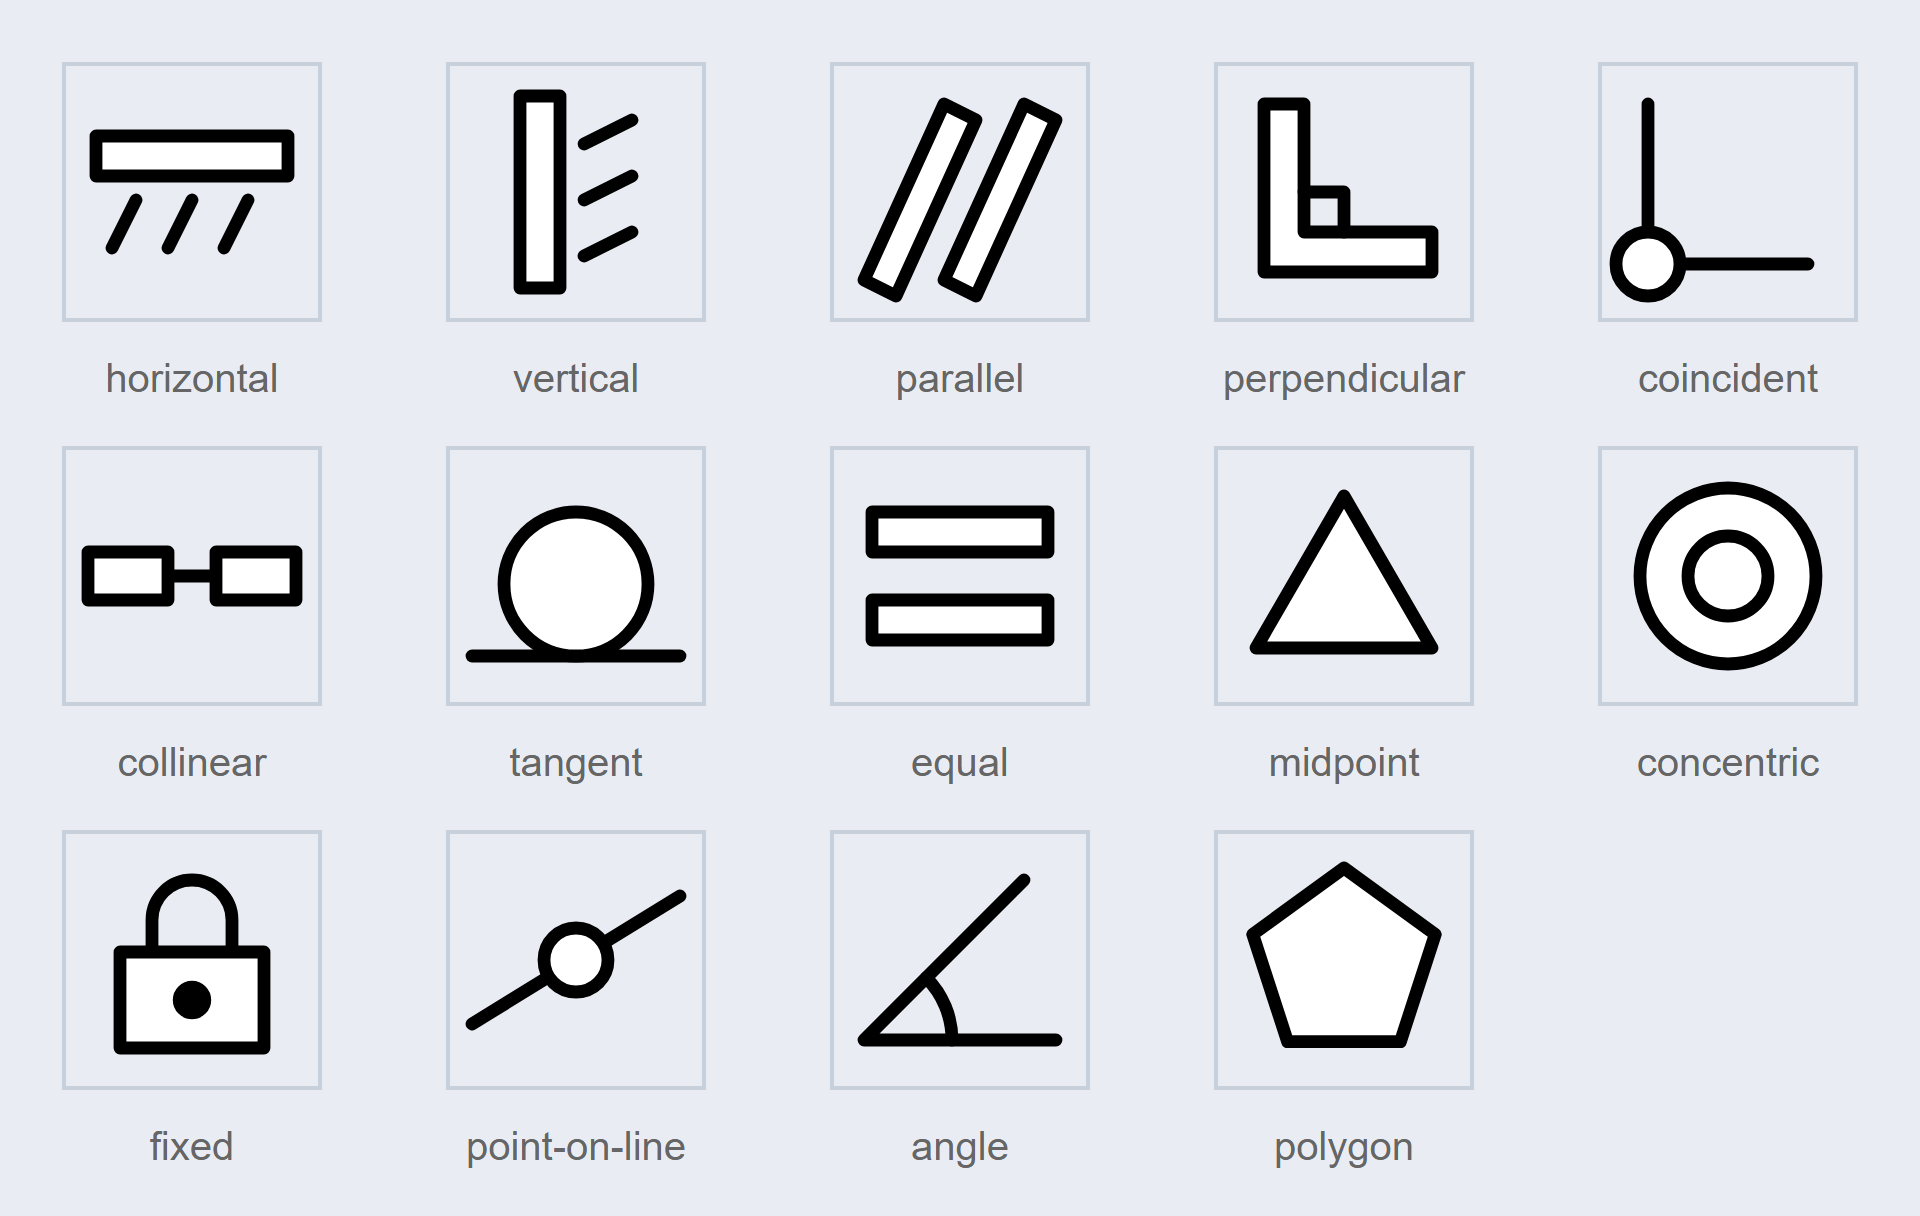
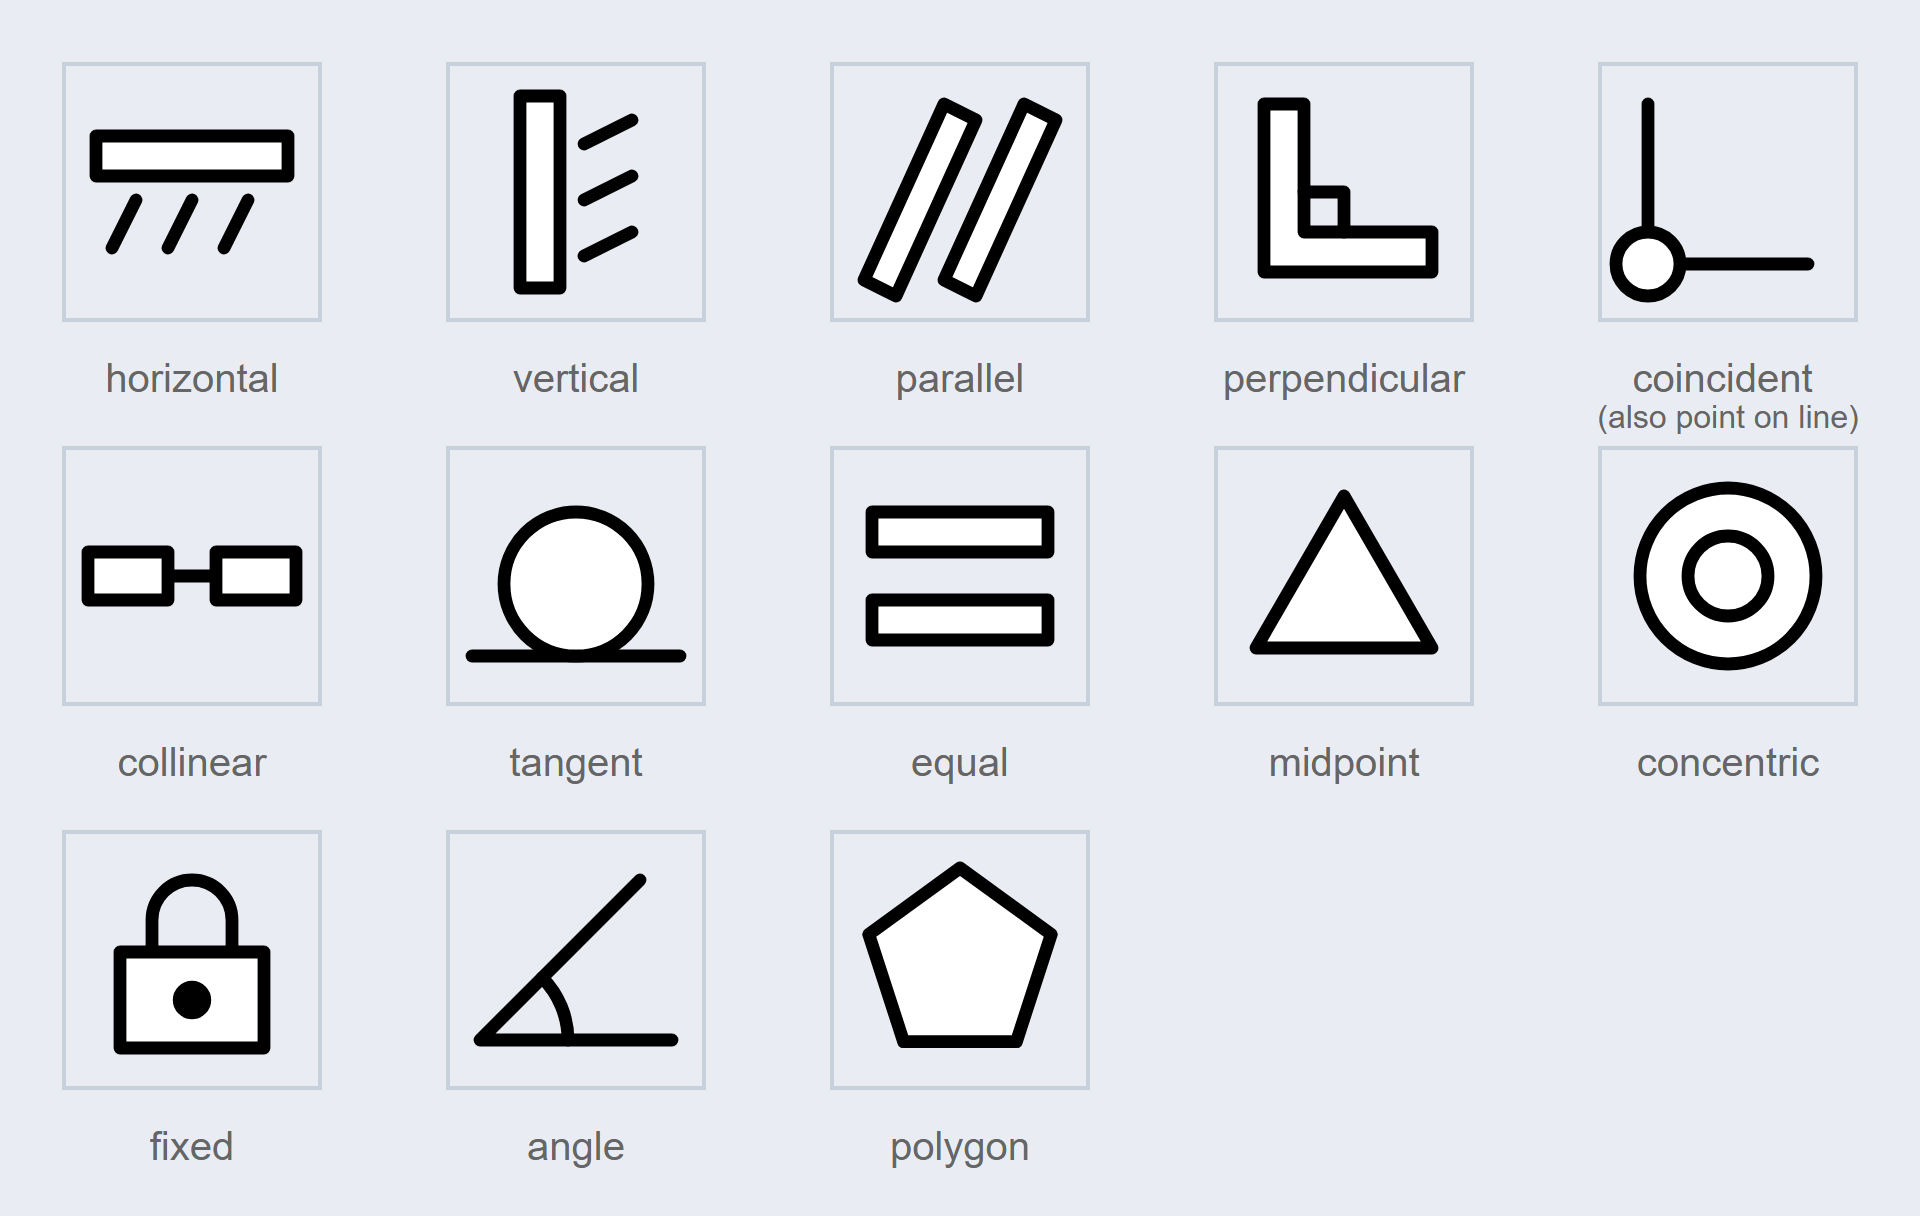
Drop point-on-line glyph; coincident covers it (TURN 504)

diff --git a/WORK-LOG.md b/WORK-LOG.md
@@ -13215,3 +13215,5 @@ Fusion template colours + glyph look (Default byte-identical: dump of a fixed sk
 
 ## TURN 504
 Added assets/constraint-glyphs.svg (14 glyphs, 32x32 cells, 48px pitch, presentation attrs only) + assets/constraint-glyphs-preview.png (8x, headless Edge). No app code touched. Fusion reference images were not accessible (/tmp path absent); glyphs follow conventional Fusion symbols.
+
+TURN 504 change: dropped glyph-point-on-line (same glyph as coincident); now 13 glyphs; coincident label reads 'coincident (also point on line)'.
